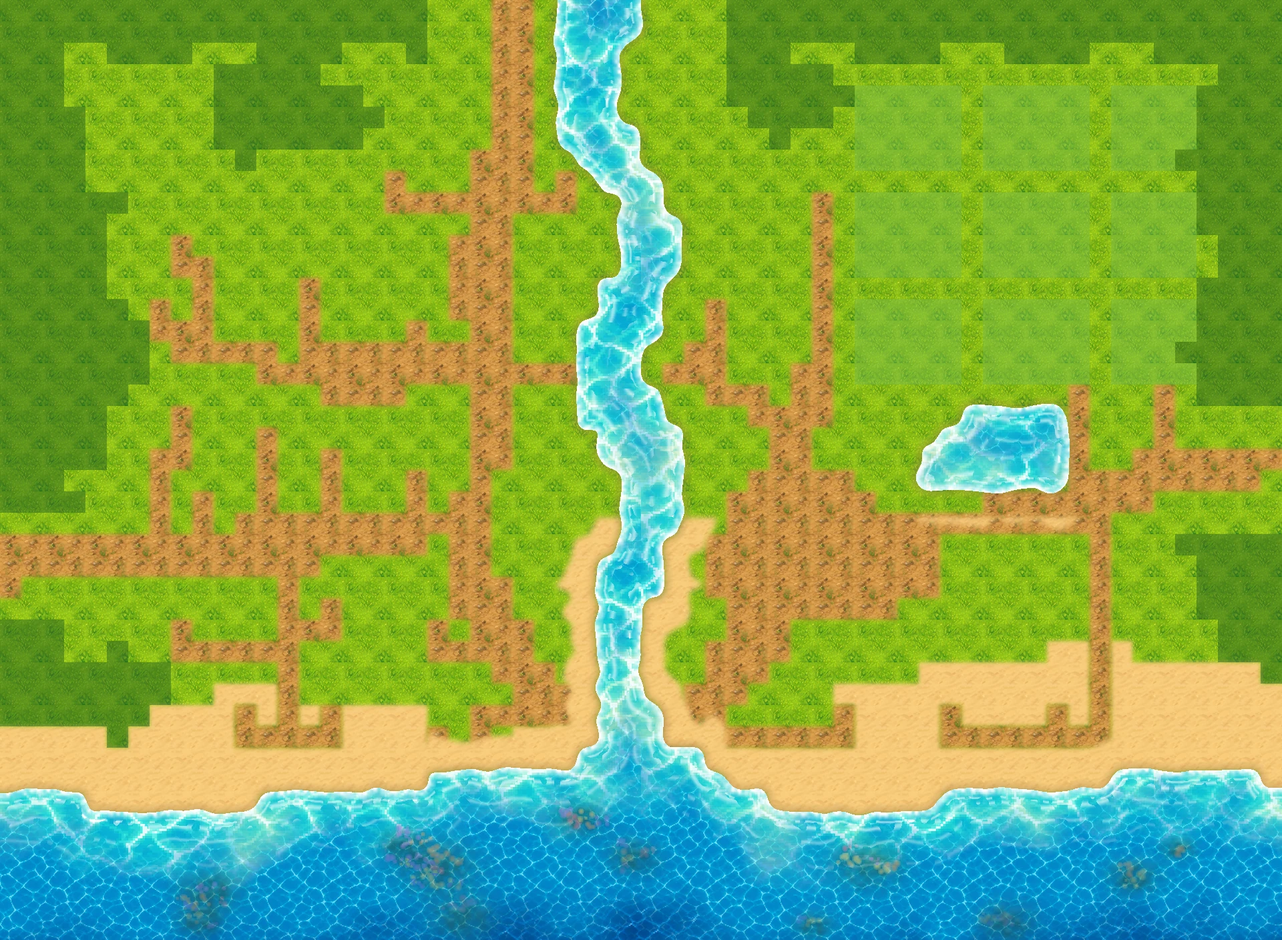
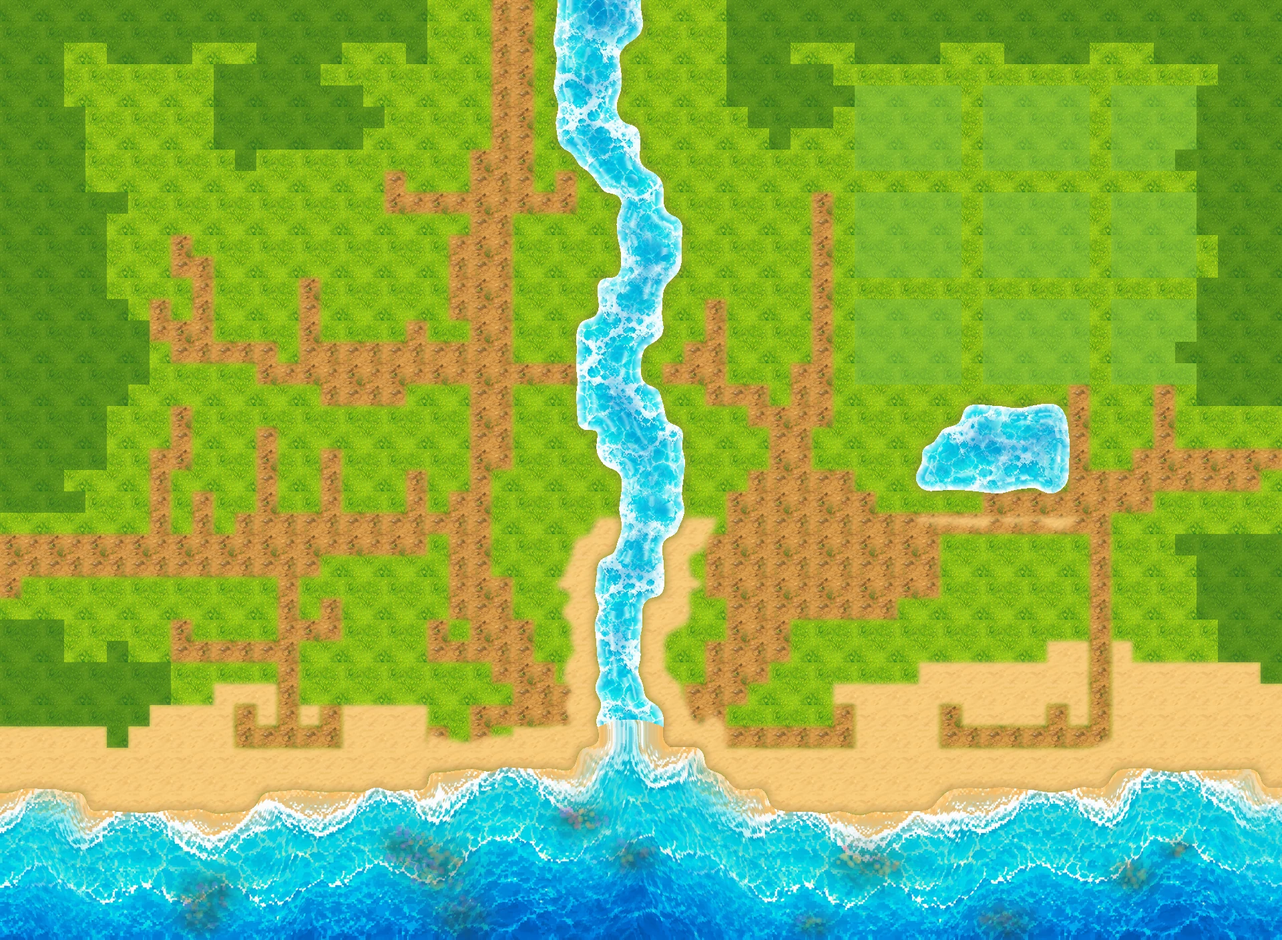
ชายฝั่งจากภาพแถบหาด (shore-strip) + ลายน้ำตื้นแบบฟอง
- art/tiles/shore-strip.png (ทราย→ฟองคลื่น→น้ำตื้น→น้ำลึก ต่อซ้ายขวาไร้รอย) ทะเลดึงแถวตามระยะจากฝั่ง คลื่นเป็นลอนขนานฝั่ง
  ใช้เฉพาะทะเล (ห่างฝั่งเกิน 90 px) แม่น้ำ/บ่อใช้ลายน้ำตื้น ปลายแถบค่อย ๆ กลับเป็นลายน้ำลึก
- water-shallow = ลายฟองขาวใหม่ 384 px ต่อกันไร้รอย, ต้นฉบับใน art/tiles/source/
- bake ใหม่ทั้งสองแมพ

Changed region(s): [[0.0, 0.0, 1.0, 1.0], [0.7188, 0.4375, 0.8438, 0.5312]]

diff --git a/tools/bake_sea.py b/tools/bake_sea.py
@@ -43,6 +43,24 @@ sea=shallow*w1[...,None]+mid*w2[...,None]+deep*w3[...,None]
 # ปรับสีตามความลึกให้ไล่นุ่มขึ้น (ตื้นสว่างอมเขียว, ลึกเข้ม)
 tint=np.stack([np.interp(dd,[0,60,200,420],[90,30,10,5]),np.interp(dd,[0,60,200,420],[230,180,110,70]),np.interp(dd,[0,60,200,420],[220,220,190,150])],-1)
 sea=sea*(1-A.tint)+tint*A.tint
+# แถบชายฝั่ง (art/tiles/shore-strip.png ถ้ามี): ทะเลดึงสีจากแถวของภาพตามระยะจากฝั่ง
+#   แถว = SHORE_ROW + ระยะจากฝั่ง (เบลอให้นุ่ม คลื่นจึงขนานฝั่ง) · คอลัมน์ = พิกัด x (ใช้จุดบนฝั่งที่ใกล้สุดทำให้เป็นแฉกรัศมีตรงฝั่งโค้ง)
+#   ใช้เฉพาะน้ำผืนใหญ่ (ทะเล) แม่น้ำ/บ่อที่แคบใช้ลายน้ำตื้นตามเดิม
+import os
+strip_path=os.path.join(A.tiles,'shore-strip.png'); SHORE_ROW=75
+use_strip=np.zeros((H,W),bool)
+if os.path.exists(strip_path):
+    ST=np.array(Image.open(strip_path).convert('RGB')).astype(float); SH,SW=ST.shape[:2]
+    # ทะเล = น้ำที่อยู่ไม่ไกลจากแกนน้ำกว้าง (ห่างฝั่งเกิน 90 px) แม่น้ำ/บ่อ (แคบกว่า ~180 px) จึงไม่โดนแถบ
+    core=d>90
+    use_strip=water&(ndimage.distance_transform_edt(~core)<110) if core.any() else np.zeros((H,W),bool)
+    ds=ndimage.gaussian_filter(d,5)
+    rows=np.clip((SHORE_ROW+ds).astype(int),0,SH-1)
+    cols=np.broadcast_to(np.arange(W)%SW,(H,W))
+    sample=ST[rows,cols]
+    # ปลายแถบ (น้ำลึกเกินภาพ) ค่อย ๆ กลับไปใช้ทะเลลายน้ำลึก
+    fade=np.clip((SHORE_ROW+ds-(SH-60))/60,0,1)[...,None]
+    sea=np.where(use_strip[...,None],sample*(1-fade)+sea*fade,sea)
 # แนวปะการัง/โขดหินใต้น้ำ: หย่อมมืดในเขตน้ำตื้น-กลาง
 reef=np.zeros((H,W))
 for _ in range(90):
@@ -74,7 +92,7 @@ for k,(dist,wid,a) in enumerate([(22,4,0.55),(46,3,0.35),(78,3,0.2)]):
     wave=np.exp(-((d-(dist+noise(40,14)-7))/wid)**2)
     broken=noise(10,1.0)>0.45
     bands+=wave*a*broken
-white=np.clip(foam+bands,0,1)*water
+white=np.clip(foam+bands,0,1)*water*(~use_strip)  # ทะเลใช้ฟองจากแถบชายฝั่งแทน
 sea=sea*(1-white[...,None])+255*white[...,None]
 # แผ่นดิน: ทรายเปียกใกล้น้ำ, ทราย, หญ้า, ทางดิน (ตามผัง)
 lg=np.array([[c for c in r] for r in G])
